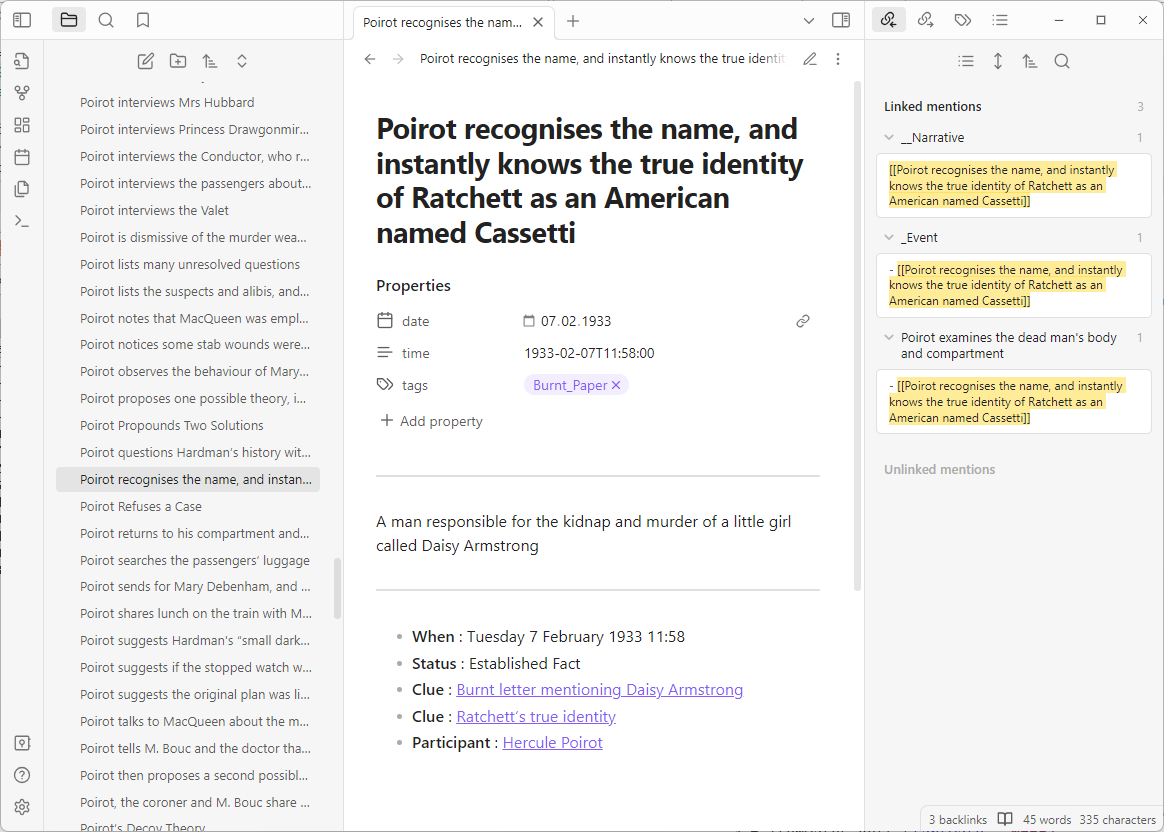
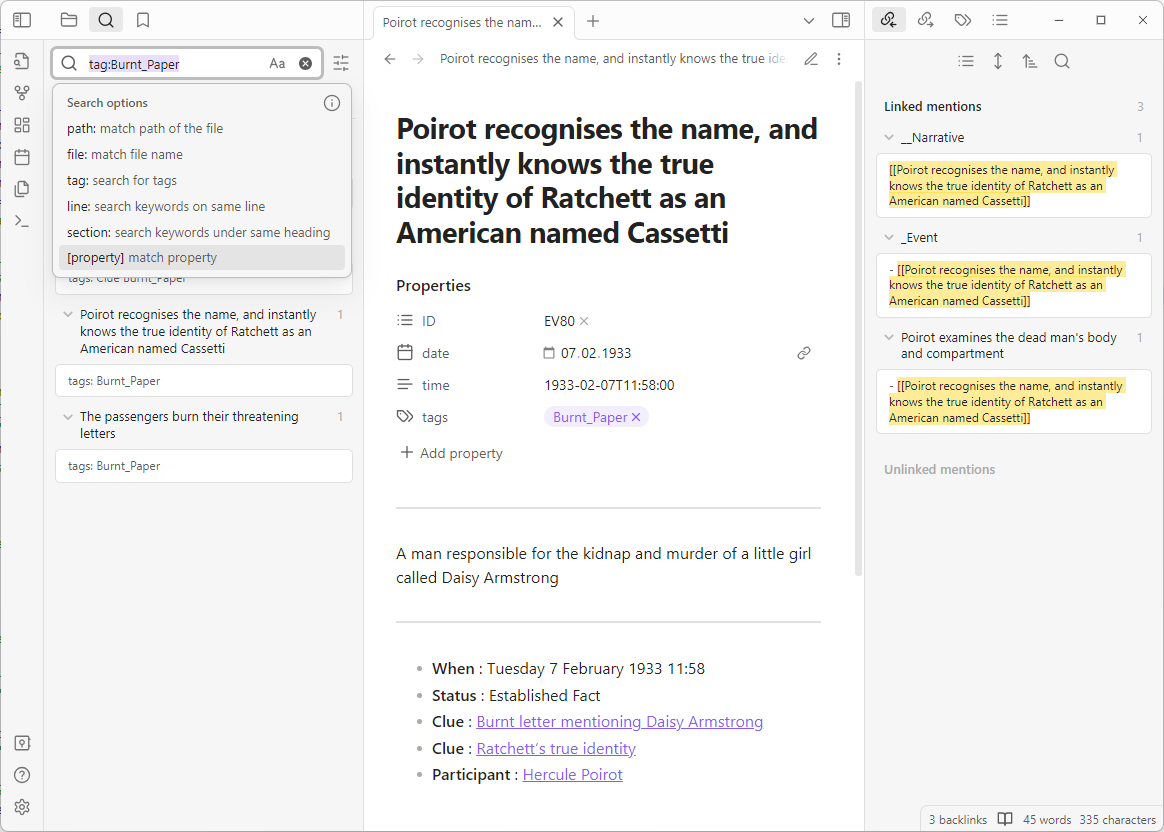
Version 2.1.0
- Rading the "actual" file version.
- Adding the AT display ID to the YAML section.

diff --git a/src/aeon3lib/aeon3_file.py b/src/aeon3lib/aeon3_file.py
@@ -32,7 +32,7 @@ class Aeon3File:
         jsonStr = self._get_json_string()
         jsonData = json.loads(jsonStr)
 
-        print(f'Found file version: "{jsonData["core"].get("coreFileVersion", "Unknown")}".')
+        print(f'Found file version: "{jsonData.get("fileVersion", "Unknown")}".')
 
         #--- Create lookup dictionaries (labels by UID).
         itemLabelLookup = self._get_item_label_lookup(jsonData)
@@ -52,6 +52,7 @@ class Aeon3File:
 
             # Get properties.
             jsonItem = jsonData['core']['data']['itemsById'][itemUid]
+            displayId = jsonItem.get('displayId', None)
             typeUid = jsonItem.get('type', None)
             shortLabel = jsonItem.get('shortLabel', None)
             summary = jsonItem.get('summary', None)
@@ -109,6 +110,7 @@ class Aeon3File:
             # Instantiate the item object.
             self.data.items[itemUid] = Aeon3Item(
                 uniqueLabel,
+                displayId,
                 typeUid,
                 shortLabel=shortLabel,
                 summary=summary,

diff --git a/src/aeon3lib/obsidian_files.py b/src/aeon3lib/obsidian_files.py
@@ -135,7 +135,11 @@ class ObsidianFiles:
         # Return the YAML part of an item page as a single string.
         obsidianProperties = {}
 
-        #--- Date and time in ISO format ("AD" era only)
+        #--- Display ID.
+        if item.displayId:
+            obsidianProperties['ID'] = f'\n  - {item.displayId}'
+
+        #--- Date and time in ISO format ("AD" era only).
         if item.isoDate:
             obsidianProperties['date'] = item.isoDate
             if item.isoTime:

diff --git a/src/aeon3lib/aeon3_item.py b/src/aeon3lib/aeon3_item.py
@@ -11,6 +11,7 @@ class Aeon3Item:
     def __init__(
             self,
             label,
+            displayId,
             typeUid,
             shortLabel=None,
             summary=None,
@@ -33,6 +34,7 @@ class Aeon3Item:
             ):
 
         self.label = label
+        self.displayId = displayId
         self.typeUid = typeUid
         self.shortLabel = shortLabel
         self.summary = summary

diff --git a/README.md b/README.md
@@ -1,4 +1,4 @@
-[![Download the latest release](docs/img/download-button.png)](https://raw.githubusercontent.com/peter88213/aeon3obsidian/main/dist/aeon3obsidian_v2.0.2.zip)
+[![Download the latest release](docs/img/download-button.png)](https://raw.githubusercontent.com/peter88213/aeon3obsidian/main/dist/aeon3obsidian_v2.1.0.zip)
 [![Changelog](docs/img/changelog-button.png)](docs/changelog.md)
 [![Give feedback](docs/img/feedback-button.png)](https://github.com/peter88213/aeon3obsidian/discussions)
 
@@ -42,7 +42,7 @@ may no longer work for you. Please consider it experimental.
 
 ## Download and install
 
-[Download the latest release (version 2.0.2)](https://raw.githubusercontent.com/peter88213/aeon3obsidian/main/dist/aeon3obsidian_v2.0.2.zip)
+[Download the latest release (version 2.1.0)](https://raw.githubusercontent.com/peter88213/aeon3obsidian/main/dist/aeon3obsidian_v2.1.0.zip)
 
 - Unpack the zipfile and copy *aeon3obsidian.py* whereever you want.
 

diff --git a/docs/changelog.md b/docs/changelog.md
@@ -4,6 +4,11 @@
 
 ## Changelog
 
+### Version 2.1.0
+
+- Rading the "actual" file version.
+- Adding the AT display ID to the YAML section.
+
 ### Version 2.0.2
 
 - Fixed a bug where the wrong month is displayed due to offset in Month name lookup. 
